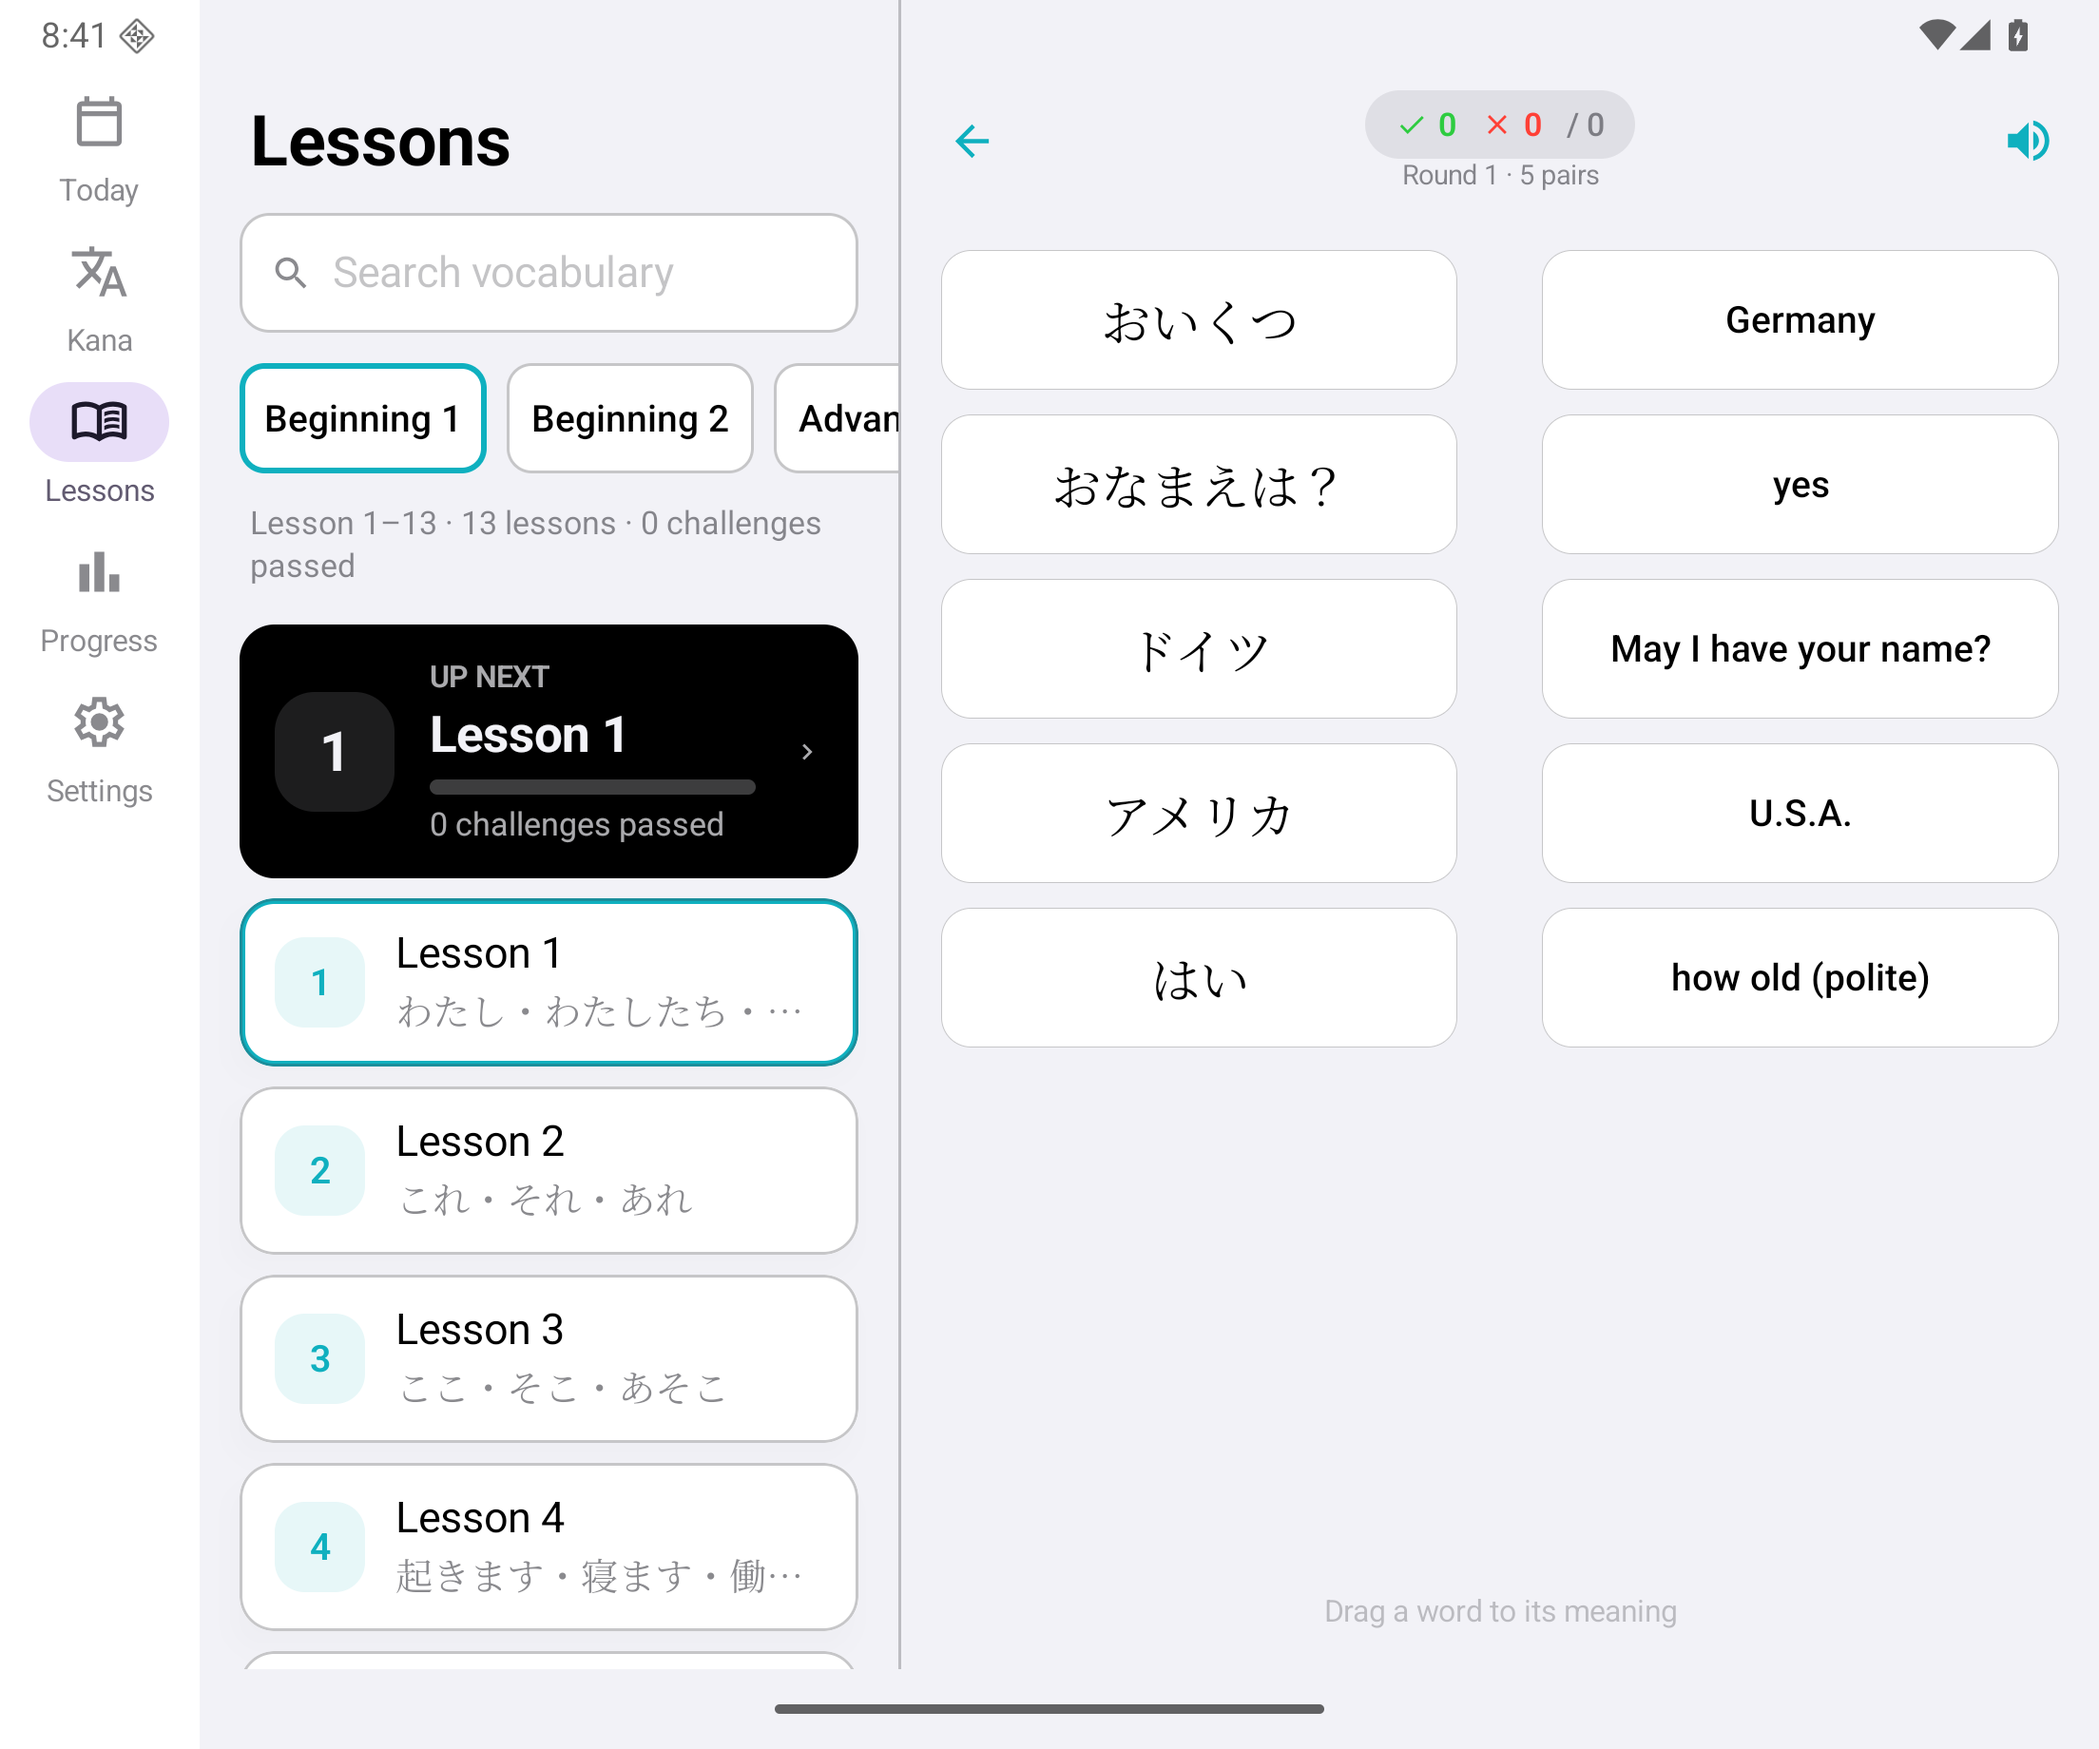
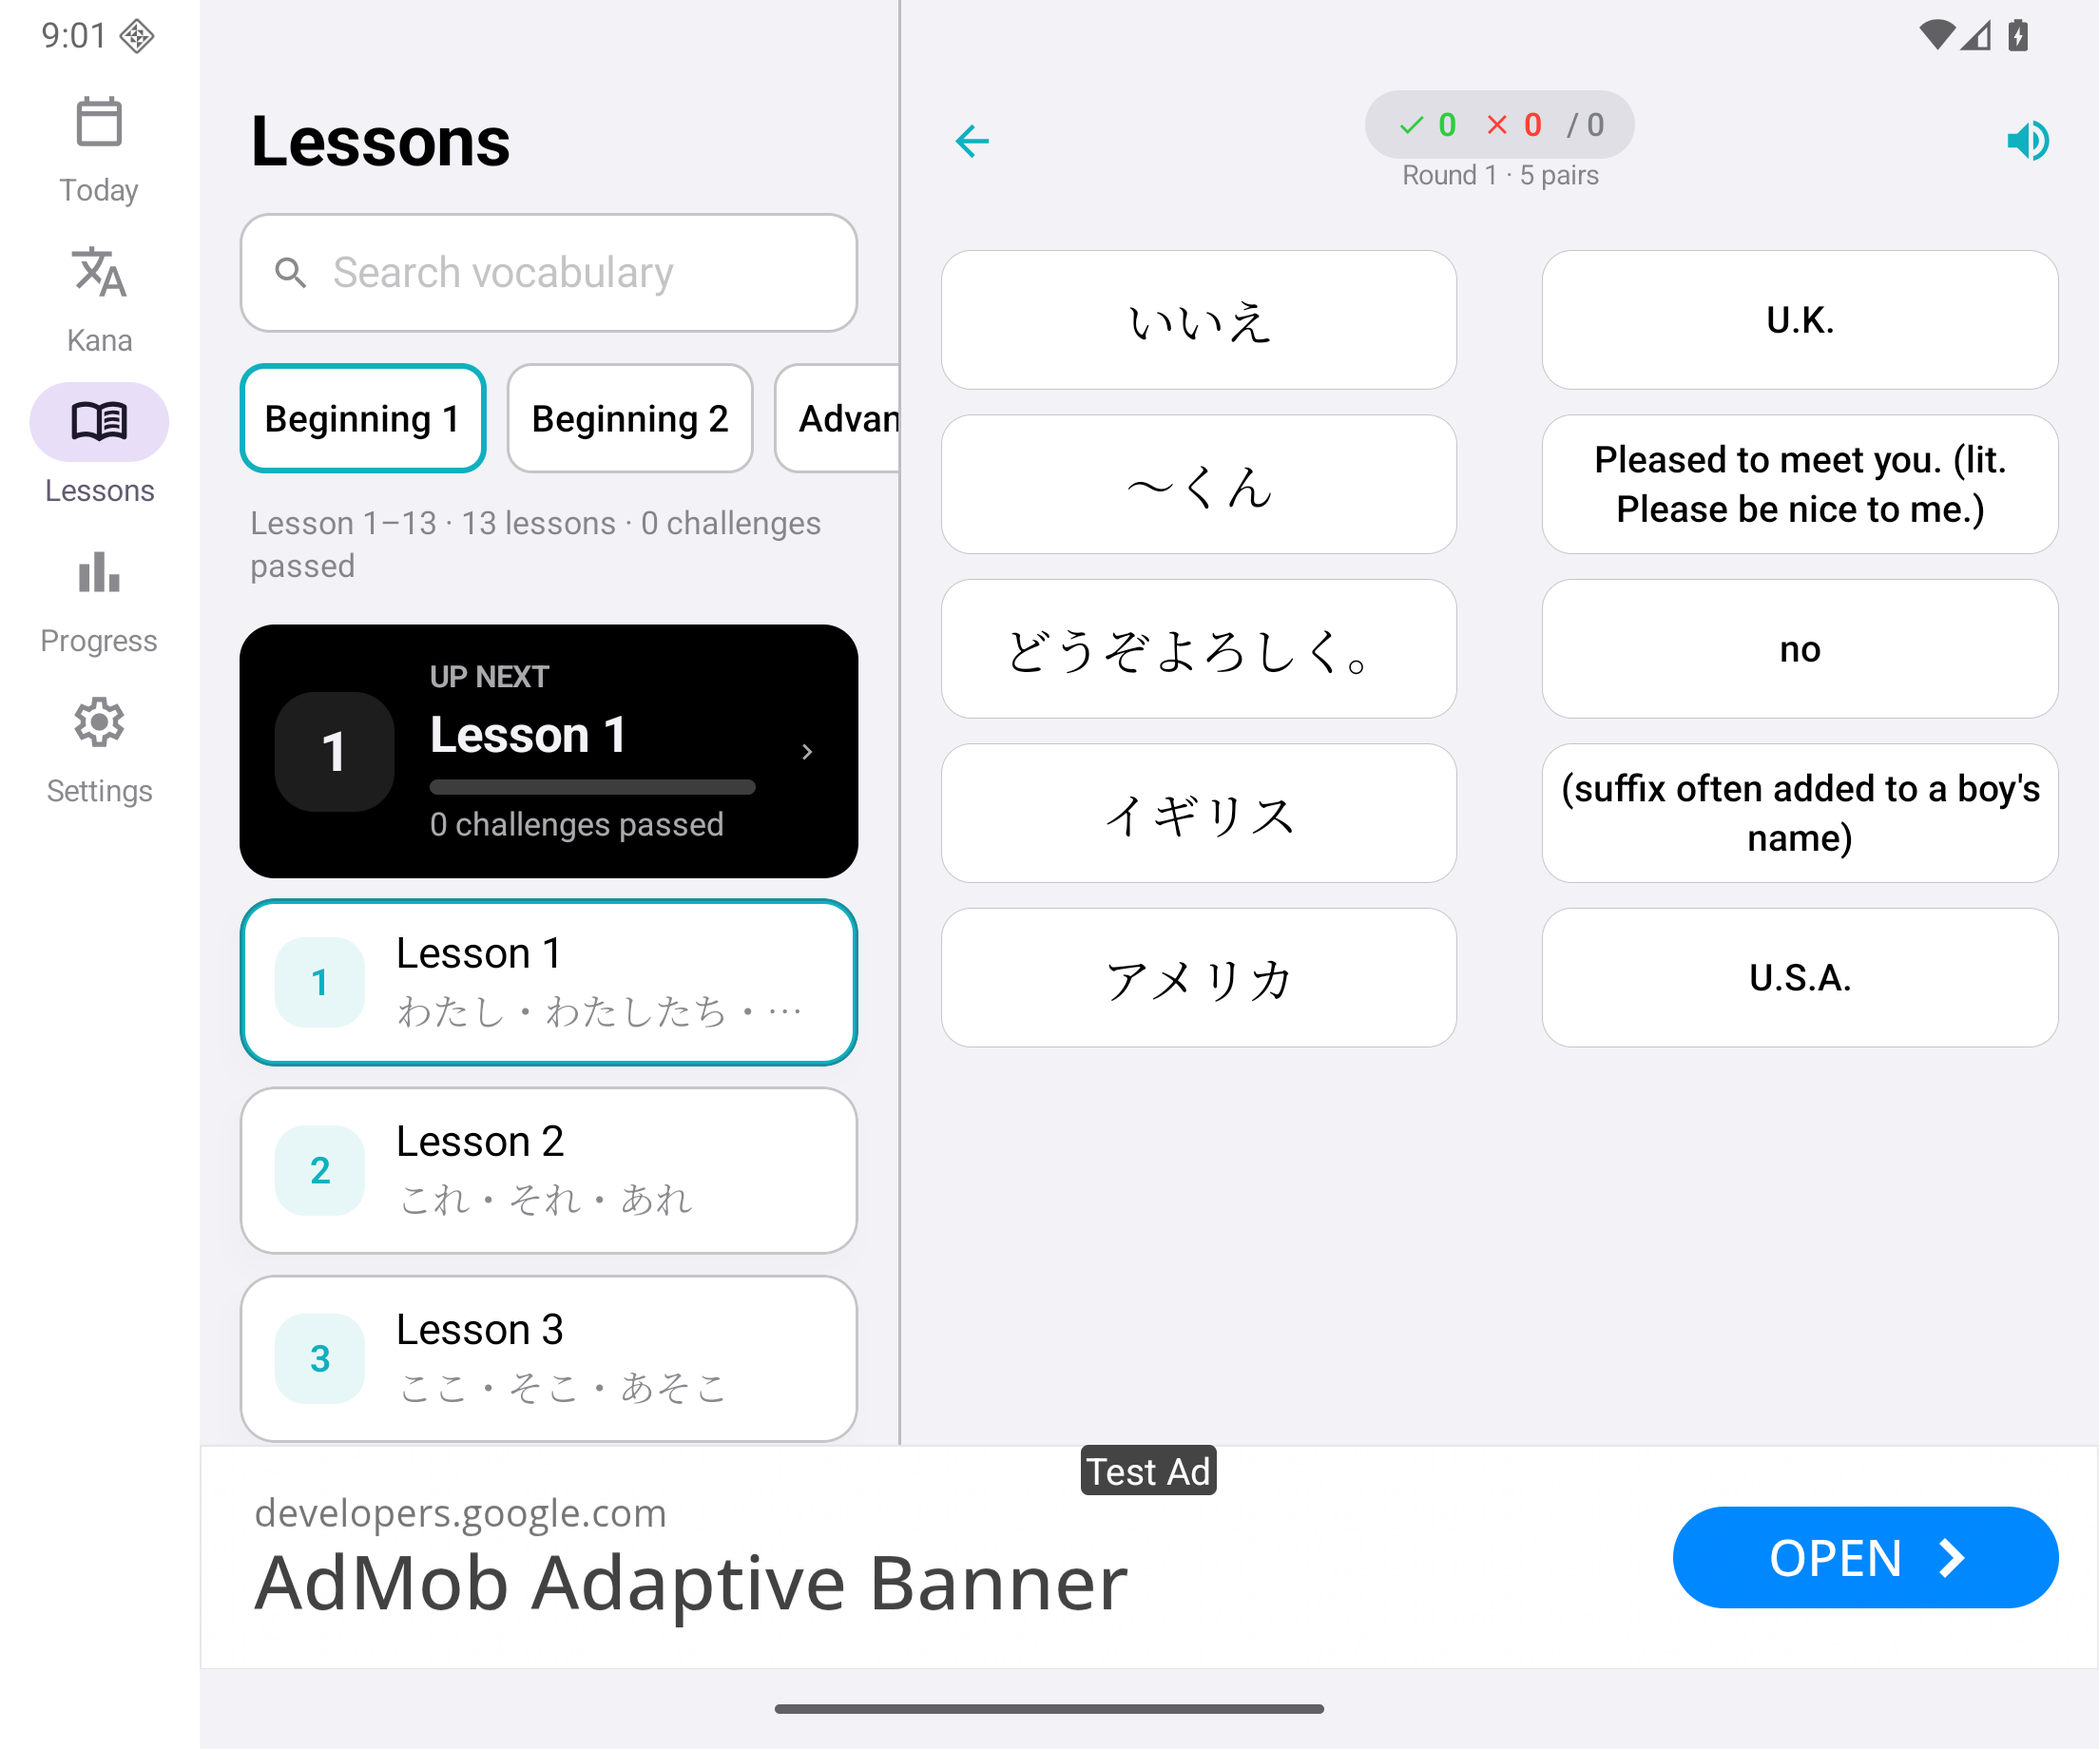
feat: two panes only from 720 dp wide and non-compact height (FOX-166)
Lessons stays single-pane below that (7in portrait, foldable portrait, phones in
landscape) so the right pane is always clearly larger than the list. The rail
still shows from 600 dp; windows are measured in dp from the window itself.

diff --git a/android/app/src/main/kotlin/com/kfpun/japanesedaily/ui/Adaptive.kt b/android/app/src/main/kotlin/com/kfpun/japanesedaily/ui/Adaptive.kt
@@ -9,13 +9,14 @@ import androidx.compose.foundation.layout.height
 import androidx.compose.foundation.layout.widthIn
 import androidx.compose.foundation.rememberScrollState
 import androidx.compose.foundation.verticalScroll
-import androidx.compose.material3.adaptive.currentWindowAdaptiveInfo
 import androidx.compose.runtime.Composable
 import androidx.compose.runtime.CompositionLocalProvider
 import androidx.compose.runtime.ReadOnlyComposable
 import androidx.compose.runtime.compositionLocalOf
 import androidx.compose.ui.Alignment
 import androidx.compose.ui.Modifier
+import androidx.compose.ui.platform.LocalDensity
+import androidx.compose.ui.platform.LocalWindowInfo
 import androidx.compose.ui.unit.dp
 
 /**
@@ -28,6 +29,9 @@ object Adaptive {
 
     /** Every tab's content and every pushed screen is capped at this width and centred. */
     const val READABLE_MAX_WIDTH_DP = 640
+
+    /** Lessons shows two panes only from this window width (dp) up, and only when the height is not compact. */
+    const val TWO_PANE_MIN_WIDTH_DP = 720
 
     /** The two-pane list column: about a third of the width, never narrower or wider than this. */
     const val LIST_PANE_MIN_DP = 280
@@ -46,26 +50,46 @@ object Adaptive {
 
     fun isCompactHeight(heightDp: Int): Boolean = heightDp < COMPACT_HEIGHT_DP
 
+    /**
+     * Two panes (list and detail side by side) need room, so the right pane is always clearly larger than the left:
+     * the window is at least [TWO_PANE_MIN_WIDTH_DP] wide AND its height is not compact. Below that (a 7" tablet or a
+     * foldable in portrait, any phone in landscape, a narrow split-screen window) Lessons stays single-pane with push
+     * navigation, while the rail still shows from [REGULAR_MIN_WIDTH_DP].
+     */
+    fun twoPane(widthDp: Int, heightDp: Int): Boolean = widthDp >= TWO_PANE_MIN_WIDTH_DP && !isCompactHeight(heightDp)
+
     /** Width of the left (list) pane for a window [totalDp] wide: one third, clamped to 280..400. Never 50/50. */
     fun listPaneWidthDp(totalDp: Float): Float =
         (totalDp / 3f).coerceIn(LIST_PANE_MIN_DP.toFloat(), LIST_PANE_MAX_DP.toFloat())
 }
 
 /** What the current window allows. Provided once by `AppScaffold`; read anywhere below it. */
-data class WindowLayout(val regularWidth: Boolean = false, val compactHeight: Boolean = false)
+data class WindowLayout(
+    val regularWidth: Boolean = false,
+    val compactHeight: Boolean = false,
+    val twoPane: Boolean = false
+)
 
 val LocalWindowLayout = compositionLocalOf { WindowLayout() }
 
-/** Reads the window size class (dp of the window, not the screen) and provides it to [content]. */
+/** Reads the window's own size in dp (not the screen's, not a size-class bucket) and provides it to [content]. */
 @Composable
 fun ProvideWindowLayout(content: @Composable () -> Unit) {
-    val size = currentWindowAdaptiveInfo().windowSizeClass
+    val size = LocalWindowInfo.current.containerSize
+    val density = LocalDensity.current.density
+    val widthDp = (size.width / density).toInt()
+    val heightDp = (size.height / density).toInt()
     val layout = WindowLayout(
-        regularWidth = Adaptive.isRegularWidth(size.minWidthDp),
-        compactHeight = Adaptive.isCompactHeight(size.minHeightDp)
+        regularWidth = Adaptive.isRegularWidth(widthDp),
+        compactHeight = Adaptive.isCompactHeight(heightDp),
+        twoPane = Adaptive.twoPane(widthDp, heightDp)
     )
     CompositionLocalProvider(LocalWindowLayout provides layout, content = content)
 }
+
+@Composable
+@ReadOnlyComposable
+fun isTwoPane(): Boolean = LocalWindowLayout.current.twoPane
 
 @Composable
 @ReadOnlyComposable

diff --git a/android/app/src/main/kotlin/com/kfpun/japanesedaily/lessons/LessonsTab.kt b/android/app/src/main/kotlin/com/kfpun/japanesedaily/lessons/LessonsTab.kt
@@ -19,15 +19,15 @@ import androidx.compose.ui.unit.dp
 import com.kfpun.japanesedaily.ladder.ChallengeScreen
 import com.kfpun.japanesedaily.ui.Adaptive
 import com.kfpun.japanesedaily.ui.Theme
-import com.kfpun.japanesedaily.ui.isRegularWidth
+import com.kfpun.japanesedaily.ui.isTwoPane
 import kotlinx.coroutines.flow.first
 
-/** True inside the right pane of the two-pane Lessons tab (regular width): its root screen has no Back. */
+/** True inside the right pane of the two-pane Lessons tab (720 dp wide, not compact height): its root screen has no Back. */
 val LocalTwoPane = compositionLocalOf { false }
 
 /**
- * The Lessons tab: the list, and the screens pushed from it, as a hoisted [LessonsNav] stack. At regular width
- * (600 dp and up) it is two panes instead: the list on the left (a third of the window) and the stack on the right,
+ * The Lessons tab: the list, and the screens pushed from it, as a hoisted [LessonsNav] stack. When the window has room for two panes
+ * (at least 720 dp wide and not compact height) it is two panes instead: the list on the left (a third of the window) and the stack on the right,
  * so a lesson and the modes it opens never cover the list. Both layouts read the one stack, so moving between
  * widths keeps the selected lesson and the screen open in it.
  */
@@ -39,7 +39,7 @@ fun LessonsTab(nav: LessonsNav, modifier: Modifier = Modifier) {
         Box(modifier.fillMaxSize().background(Theme.colors.canvas))
         return
     }
-    val twoPane = isRegularWidth()
+    val twoPane = isTwoPane()
     // In two panes the root of the right pane is a lesson's mode picker, which has no screen behind it to pop to.
     BackHandler(enabled = nav.stack.size > if (twoPane) 1 else 0) { nav.pop() }
     // FOX-154: every tap on an open rung pushes the run.

diff --git a/android/app/src/test/kotlin/com/kfpun/japanesedaily/ui/AdaptiveTest.kt b/android/app/src/test/kotlin/com/kfpun/japanesedaily/ui/AdaptiveTest.kt
@@ -46,6 +46,29 @@ class AdaptiveTest {
     }
 
     @Test
+    fun twoPanesNeedSevenTwentyWideAndANonCompactHeight() {
+        assertFalse("7in tablet portrait", Adaptive.twoPane(600, 960))
+        assertTrue("small tablet portrait edge", Adaptive.twoPane(720, 1280))
+        assertFalse("phone landscape", Adaptive.twoPane(915, 411))
+        assertTrue("foldable unfolded", Adaptive.twoPane(841, 701))
+        assertTrue("10in tablet landscape", Adaptive.twoPane(1280, 800))
+        assertFalse("just under 720", Adaptive.twoPane(719, 1280))
+        assertFalse("height just compact", Adaptive.twoPane(1280, 479))
+        assertTrue("height just regular", Adaptive.twoPane(1280, 480))
+    }
+
+    @Test
+    fun theRightPaneIsAlwaysClearlyLargerThanTheList() {
+        val rail = 80
+        for (width in 720..2400 step 20) {
+            assertTrue(Adaptive.twoPane(width, 800))
+            val list = Adaptive.listPaneWidthDp((width - rail).toFloat())
+            val right = width - rail - list
+            assertTrue("width $width: right $right vs list $list", right > list * 1.25f)
+        }
+    }
+
+    @Test
     fun openingALessonReplacesTheRightPaneAndKeepsTheSelection() {
         val nav = LessonsNav()
         nav.openLesson(3)

diff --git a/android/CLAUDE.md b/android/CLAUDE.md
@@ -358,8 +358,9 @@ toggle the analytics opt-out, a long press calls `IntroLauncher.replay()`.
 ## Large screens (`ui/Adaptive.kt`, FOX-166)
 
 Tablets, foldables and landscape phones follow the same rules as the iOS iPad ticket. Everything is decided from the **window**
-(`currentWindowAdaptiveInfo`), never the device: regular width is 600 dp and up, compact height is under 480 dp. `Adaptive` holds the
-numbers (pure, `AdaptiveTest`), `ProvideWindowLayout` provides them, `isRegularWidth()` / `isCompactHeight()` read them.
+(`LocalWindowInfo`, in dp), never the device: regular width is 600 dp and up (the rail), compact height is under 480 dp, and **two panes need
+the window to be at least 720 dp wide AND not compact height** (`Adaptive.twoPane`). `Adaptive` holds the numbers (pure, `AdaptiveTest`),
+`ProvideWindowLayout` provides them, `isRegularWidth()` / `isCompactHeight()` / `isTwoPane()` read them.
 
 - **Bar or rail:** `AppScaffold` uses `NavigationSuiteScaffold` with the layout forced from the width (bar under 600, rail from 600). The ad
   banner sits in a column under the tab content, so beside a rail it is above the content's bottom edge, never under the rail.
@@ -368,12 +369,14 @@ numbers (pure, `AdaptiveTest`), `ProvideWindowLayout` provides them, `isRegularW
   parameter), and the result is the same: every title sits directly under the status bar.
 - **Readable width:** `ReadableWidth` caps a tab at 640 dp and centres it (background stays full-bleed); `LessonScreenFrame` does the same for every pushed
   lesson screen, and `IntroHost` for the intro cards.
-- **Two panes (Lessons only):** at regular width `LessonsTab` is a Row, the list on the left (a third of the width, 280 to 400 dp) and the same
+- **Two panes (Lessons only):** the user's rule is that the right pane is always clearly larger than the left, never equal or smaller, so two panes
+  need room: at least 720 dp wide and not compact height. Below that (a 7" tablet or an unfolded foldable in portrait, any phone in landscape, a narrow
+  split-screen window) Lessons stays single-pane with push navigation, while the rail still shows from 600 dp. Otherwise `LessonsTab` is a Row, the list on the left (a third of the width, 280 to 400 dp) and the same
   `LessonsNav` stack on the right. Picking a lesson is `nav.openLesson(n)`, which replaces the stack, so modes push *inside* the right pane. With nothing
   open, the up-next lesson is selected (once, into the stack). The selected row has the accent border. The right pane's root (`SelectModeScreen`) has no
   Back (`LocalTwoPane`). Settings and Progress stay one centred column (their rows open dialogs or a single pushed screen).
 - **State survives fold, rotate and resize:** `MainActivity` handles `orientation|screenSize|smallestScreenSize|screenLayout|density|keyboard...` itself, so a
-  round (Practice queue, Match board, Challenge rung) is never recreated; the Lessons routes are one `movableContentOf`, so crossing 600 dp moves them between
+  round (Practice queue, Match board, Challenge rung) is never recreated; the Lessons routes are one `movableContentOf`, so crossing the two-pane threshold moves them between
   the full-width slot and the right pane without disposing them. Locale and night mode still recreate (the nav stack is saved; a round is not).
 - **Cards:** the card box is `weight(1f, fill = false)` capped at `CARD_MAX_HEIGHT_DP` (560), so the answer buttons sit right under it. `ScrollIfShort` wraps
   the card screens (Practice, Flashcards, Match, Challenge play, Today, the Kana modes): under 560 dp of window height the content keeps 560 dp and the screen scrolls.
